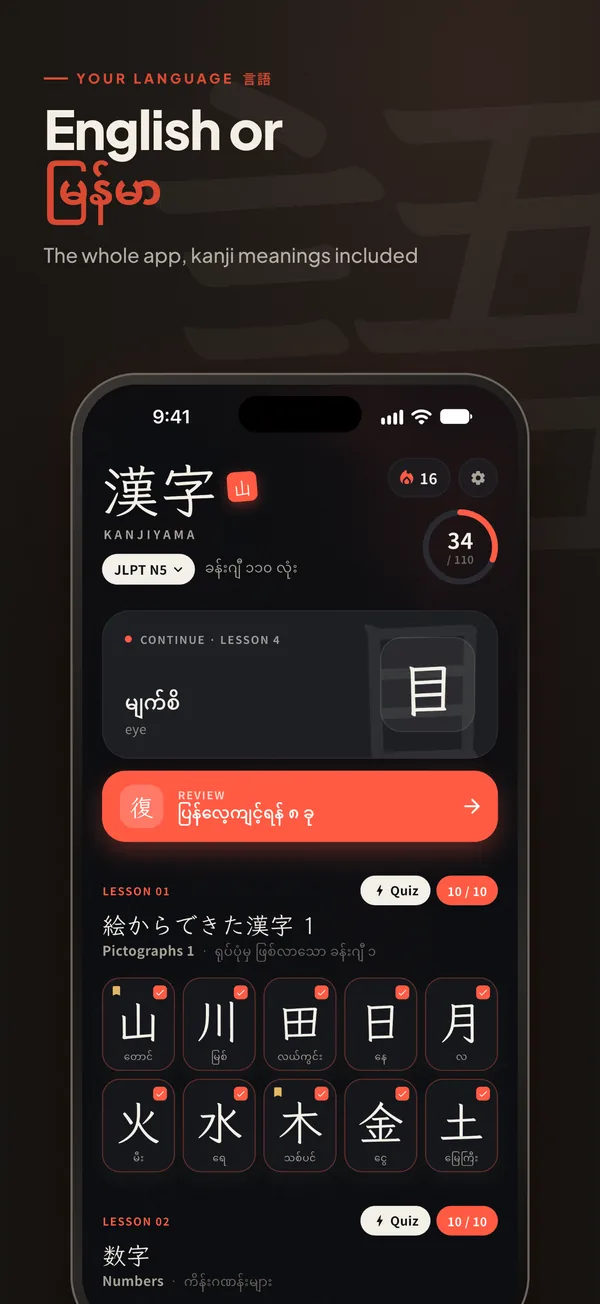
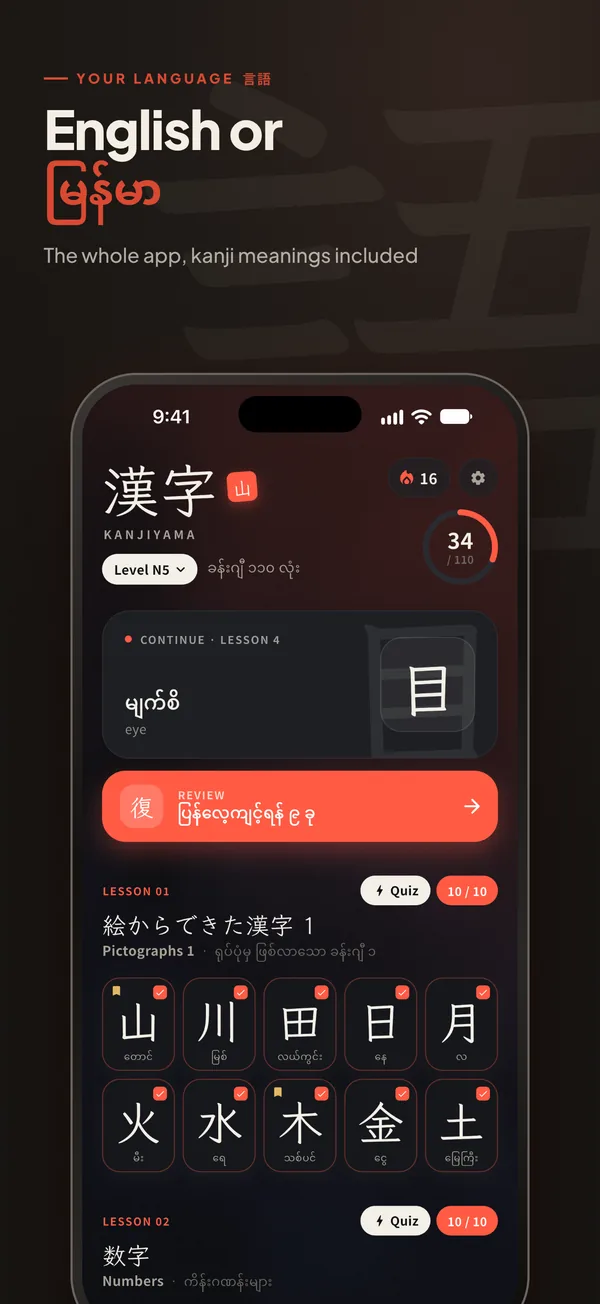
Kanjiyama: describe it without the test's name; new screens (Level N5)

Changed region(s): [[0.18, 0.2761, 0.87, 0.6748], [0.48, 0.6135, 0.54, 0.6442], [0.18, 0.2761, 0.21, 0.3067]]

diff --git a/kanjiyama/index.html b/kanjiyama/index.html
@@ -4,9 +4,9 @@
   <meta charset="UTF-8">
   <meta name="viewport" content="width=device-width, initial-scale=1.0">
   <title>Kanjiyama: Learn Kanji</title>
-  <meta name="description" content="Climb the JLPT kanji mountain. Stroke order, handwriting practice, memory pictures, JLPT-style quizzes and spaced review, in English or Burmese. Starting with all 110 N5 kanji.">
+  <meta name="description" content="Climb the kanji mountain. Stroke order, handwriting practice, memory pictures, exam-style quizzes and spaced review, in English or Burmese. Starting with all 110 N5 kanji.">
   <meta property="og:title" content="Kanjiyama: Learn Kanji">
-  <meta property="og:description" content="Stroke order, writing practice, memory pictures and JLPT-style quizzes, in English or Burmese.">
+  <meta property="og:description" content="Stroke order, writing practice, memory pictures and exam-style quizzes, in English or Burmese.">
   <meta property="og:image" content="https://phyomyanmarkyaw.com/kanjiyama/img/shot_01_hero.webp">
   <meta name="theme-color" content="#15110e">
   <link rel="icon" type="image/png" href="img/icon.png">
@@ -229,7 +229,7 @@
         <div class="copy">
           <div class="mark"><span class="kanji">漢字</span><span class="hanko">山</span></div>
           <div class="name">KANJIYAMA</div>
-          <h1>Climb the<br><em>JLPT kanji</em><br>mountain</h1>
+          <h1>Climb the<br><em>kanji</em><br>mountain</h1>
           <p class="lead">Watch every stroke, write it yourself, remember it with a picture, and review right before you forget. In English or Burmese, starting with all 110 N5 kanji.</p>
           <div class="stores">
             <a class="store" data-store="appStore" href="#" target="_blank" rel="noopener"><i class="fab fa-apple"></i><span><small>Download on the</small><b>App Store</b></span></a>
@@ -265,7 +265,7 @@
         <img src="img/shot_03_writing.webp" alt="Write it and get graded" loading="lazy">
         <img src="img/shot_04_picture.webp" alt="A picture for every kanji" loading="lazy">
         <img src="img/shot_05_readings.webp" alt="Readings and real words" loading="lazy">
-        <img src="img/shot_06_quiz.webp" alt="Quizzes that feel like the JLPT" loading="lazy">
+        <img src="img/shot_06_quiz.webp" alt="Quizzes in the real exam style" loading="lazy">
         <img src="img/shot_07_stats.webp" alt="Review right before you forget" loading="lazy">
         <img src="img/shot_08_burmese.webp" alt="English or Burmese" loading="lazy">
       </div>
@@ -277,7 +277,7 @@
           <div class="feature reveal"><div class="glyph kanji">書</div><h3>Write it yourself</h3><p>Trace it, then write it from memory. Every stroke is checked, and you earn a 優, 良 or 可 stamp.</p></div>
           <div class="feature reveal"><div class="glyph kanji">絵</div><h3>Memory pictures</h3><p>A hand-drawn ink picture for each of the 110 kanji, morphing into the character it became.</p></div>
           <div class="feature reveal"><div class="glyph kanji">読</div><h3>Readings and words</h3><p>On'yomi and kun'yomi with romaji, and example words grouped by reading, with furigana and audio.</p></div>
-          <div class="feature reveal"><div class="glyph kanji">試</div><h3>JLPT-style quizzes</h3><p>Meaning, 漢字読み and 表記 questions whose wrong answers are the slips the test looks for.</p></div>
+          <div class="feature reveal"><div class="glyph kanji">試</div><h3>Exam-style quizzes</h3><p>Meaning, 漢字読み and 表記 questions whose wrong answers are the slips the test looks for.</p></div>
           <div class="feature reveal"><div class="glyph kanji">続</div><h3>Review at the right time</h3><p>Spaced repetition brings each kanji back before you forget it, with a daily streak and stats.</p></div>
         </div>
       </div>
@@ -331,7 +331,7 @@
         <details class="reveal"><summary>Is Kanjiyama free?</summary><p>Yes. The app is free with ads. If you prefer to study without them, a one-time purchase removes the ads for good. It is not a subscription.</p></details>
         <details class="reveal"><summary>Do I need an account?</summary><p>No. There is nothing to sign up for: your progress, streak and settings stay on your device.</p></details>
         <details class="reveal"><summary>Does it work offline?</summary><p>Yes, studying works without an internet connection. Ads simply don't show while you're offline.</p></details>
-        <details class="reveal"><summary>Which JLPT levels are included?</summary><p>All 110 N5 kanji today, in 11 short lessons. N4 is next, then N3, N2 and N1.</p></details>
+        <details class="reveal"><summary>Which levels are included?</summary><p>All 110 N5 kanji today, in 11 short lessons. N4 is next, then N3, N2 and N1.</p></details>
         <details class="reveal"><summary>Is it available on Android?</summary><p>Kanjiyama is coming to Google Play soon.</p></details>
         <details class="reveal"><summary>How is my data handled?</summary><p>Your study data stays on your phone. Ads and anonymous usage statistics are explained in the <a href="privacy">privacy policy</a>.</p></details>
       </div>
@@ -363,7 +363,7 @@
     <div class="wrap">
       <span>Kanjiyama · 漢字山 · © 2026 Phyo Myanmar Kyaw</span>
       <nav><a href="privacy">Privacy policy</a><a href="mailto:kglay.kophyo@gmail.com">Support</a><a href="/">Developer</a></nav>
-      <span class="note">Kanjiyama is an independent app, not affiliated with the JLPT organisers (The Japan Foundation, JEES) or any textbook publisher. Stroke order data: KanjiVG. Kanji and word data: KANJIDIC2 and JMdict (EDRDG).</span>
+      <span class="note">Kanjiyama is an independent study app, not affiliated with or endorsed by any test organiser or textbook publisher. Stroke order data: KanjiVG. Kanji and word data: KANJIDIC2 and JMdict (EDRDG).</span>
     </div>
   </footer>
 

diff --git a/index.html b/index.html
@@ -276,9 +276,9 @@ footer { padding-block: 34px 44px; display: flex; flex-wrap: wrap; justify-conte
           <div class="app-copy">
             <div class="app-head">
               <img src="assets/apps/kanjiyama-icon.png" alt="" width="54" height="54">
-              <div><div class="app-kicker">JLPT kanji · iPhone, iPad, Android</div><h3>Kanjiyama</h3></div>
+              <div><div class="app-kicker">Japanese kanji · iPhone, iPad, Android</div><h3>Kanjiyama</h3></div>
             </div>
-            <p class="app-what">Learn JLPT kanji with stroke order, writing practice and quizzes, in English and Burmese.</p>
+            <p class="app-what">Learn Japanese kanji with stroke order, writing practice and quizzes, in English and Burmese.</p>
             <div class="app-links">
               <a class="btn btn-a btn-sm" href="kanjiyama/">Explore Kanjiyama →</a>
               <span class="soon">Coming soon to the App Store and Google Play</span>

diff --git a/kanjiyama/privacy.html b/kanjiyama/privacy.html
@@ -80,7 +80,7 @@
     Both are described below.</p>
   </div>
 
-  <p>This policy explains how Kanjiyama ("the app"), a JLPT kanji app made by Phyo Myanmar Kyaw ("I", "me"),
+  <p>This policy explains how Kanjiyama ("the app"), a Japanese kanji app made by Phyo Myanmar Kyaw ("I", "me"),
   handles information. It applies to the app on iOS and Android.</p>
 
   <h2>Information that stays on your device</h2>
